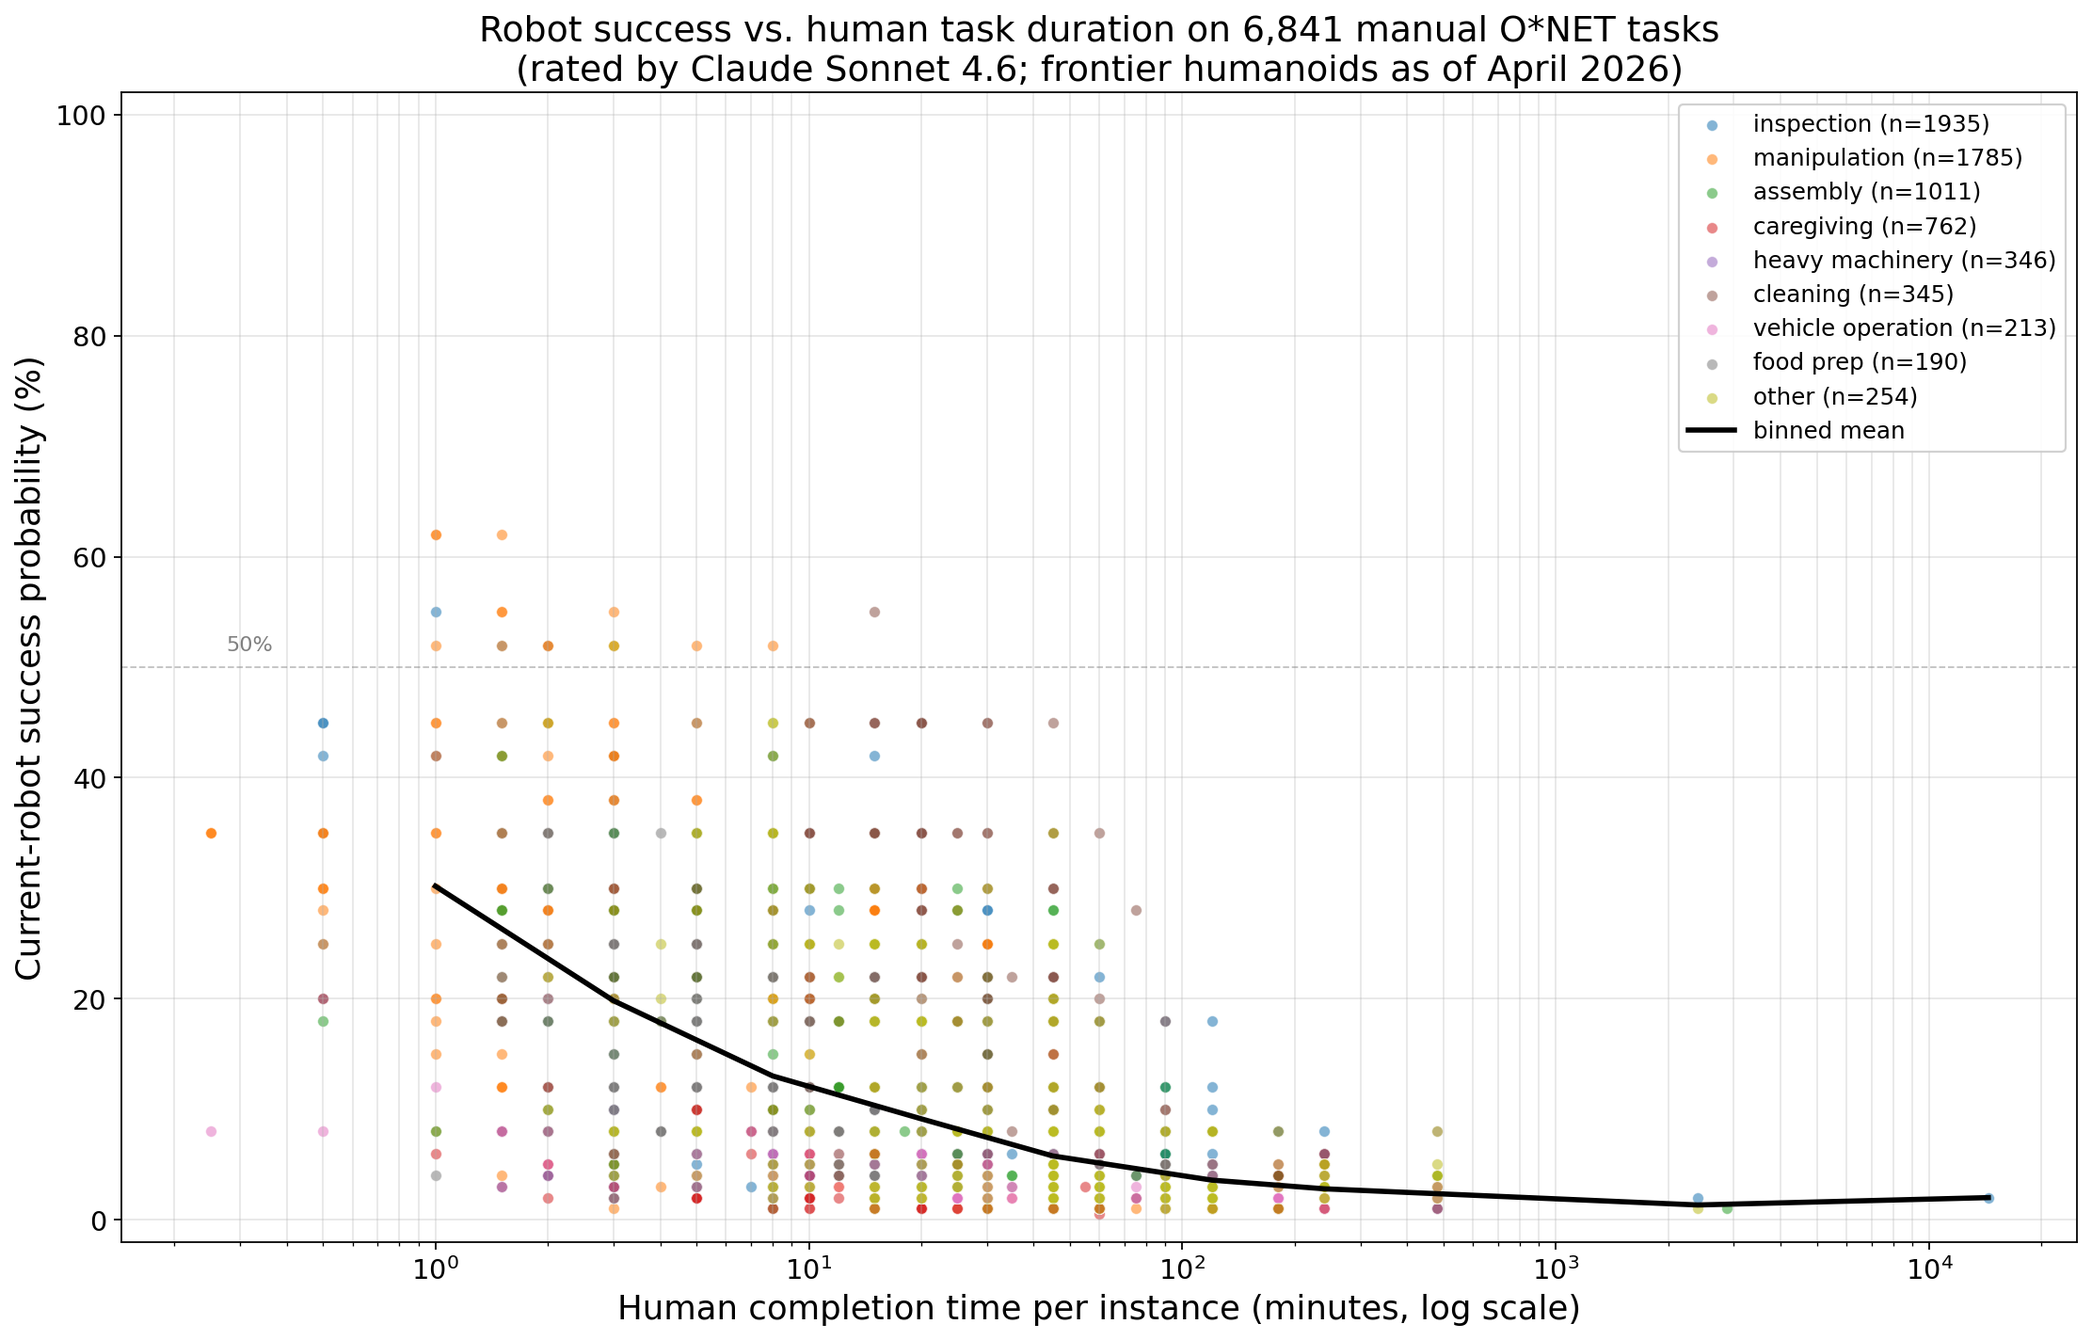
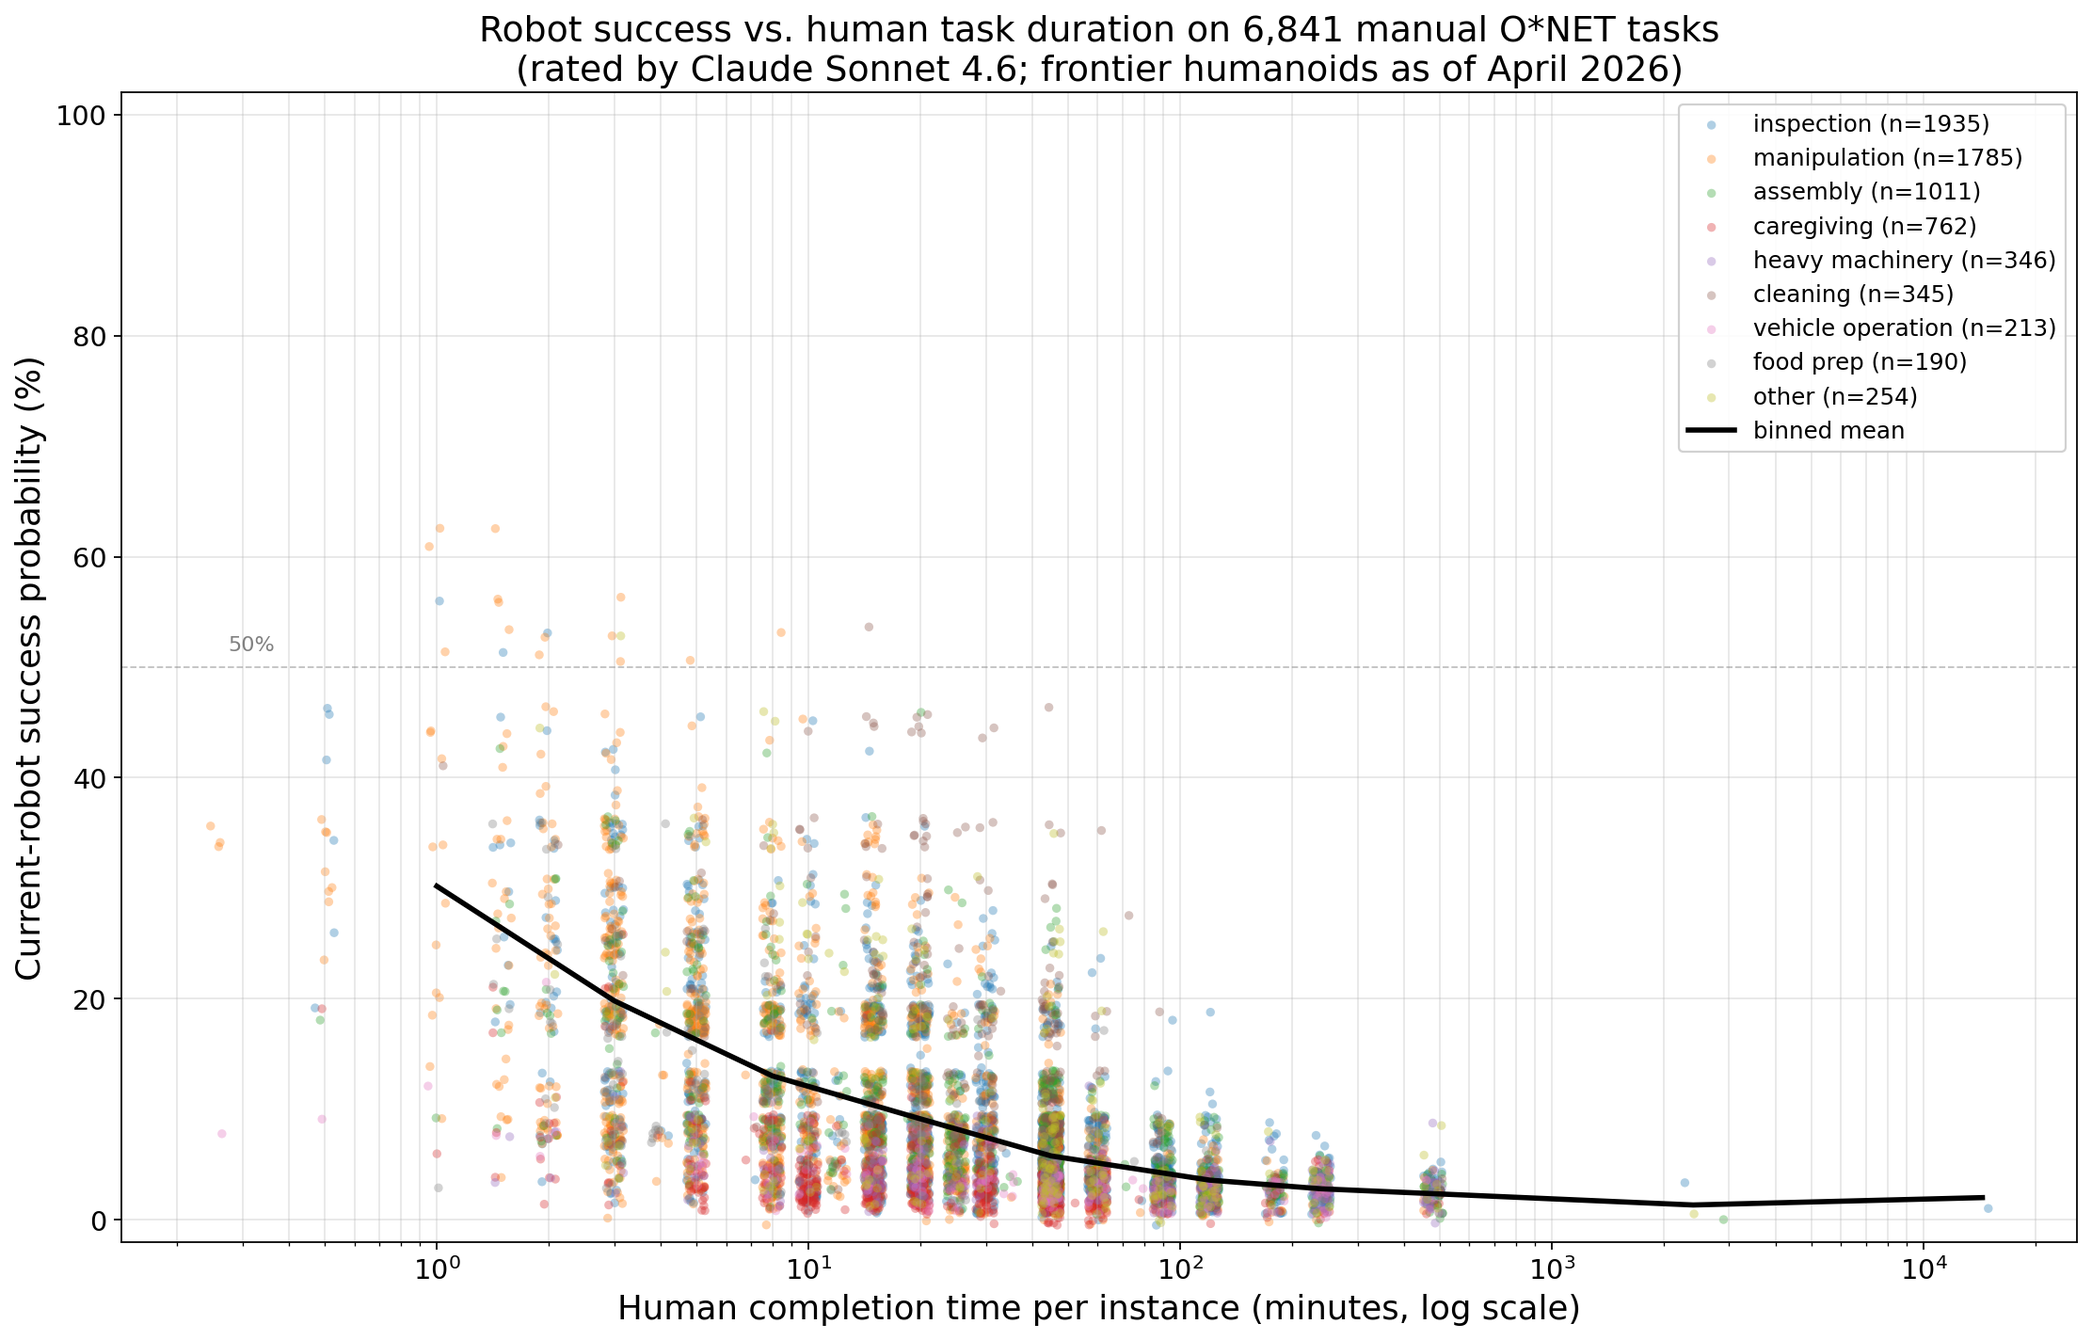
Add jitter to scatter; add human-time histogram; expand README with summary stats
- plot.py: multiplicative log-x jitter ±6% and additive y jitter ±1.5pp
  so integer-valued prob scores and round-number times separate visually
- plot_histogram.py (new): log-x histogram of human_time_minutes with
  median/mean lines and per-bin share labels
- README.md: add headline result, full-corpus summary stats, category table,
  rater-comparison sanity check, limitations section

diff --git a/src/plot_histogram.py b/src/plot_histogram.py
@@ -1,0 +1,78 @@
+"""Slide-quality histogram of human completion time across manual O*NET tasks.
+
+Input:  outputs/manual_tasks_rated_sonnet_4_6.tsv (or PLOT_INPUT)
+Output: plots/human_time_histogram.png
+"""
+
+from __future__ import annotations
+
+import os
+from pathlib import Path
+
+import matplotlib.pyplot as plt
+import numpy as np
+import pandas as pd
+
+ROOT = Path(__file__).resolve().parent.parent
+INPUT_PATH = Path(
+    os.environ.get("PLOT_INPUT", ROOT / "outputs" / "manual_tasks_rated_sonnet_4_6.tsv")
+)
+PLOTS_DIR = ROOT / "plots"
+PLOTS_DIR.mkdir(exist_ok=True)
+OUT_PATH = PLOTS_DIR / "human_time_histogram.png"
+
+
+def main() -> None:
+    df = pd.read_csv(INPUT_PATH, sep="\t")
+    t = df["human_time_minutes"].astype(float)
+    n = len(t)
+
+    bins = np.logspace(np.log10(max(t.min(), 0.1)), np.log10(t.max() * 1.01), 26)
+
+    fig, ax = plt.subplots(figsize=(14, 8))
+    counts, edges, patches = ax.hist(
+        t,
+        bins=bins,
+        color="#4a8cd8",
+        edgecolor="white",
+        linewidth=0.6,
+    )
+
+    share = counts / n * 100
+    for i, p in enumerate(patches):
+        if share[i] >= 1.5:
+            cx = (edges[i] * edges[i + 1]) ** 0.5
+            ax.text(cx, counts[i] + n * 0.004, f"{share[i]:.1f}%", ha="center", va="bottom", fontsize=10)
+
+    median = float(t.median())
+    mean = float(t.mean())
+    ax.axvline(median, color="black", linestyle="--", linewidth=1.5, label=f"median = {median:g} min")
+    ax.axvline(mean, color="firebrick", linestyle=":", linewidth=1.5, label=f"mean = {mean:.1f} min")
+
+    ax.set_xscale("log")
+    ax.set_xlabel("Human completion time per instance (minutes, log scale)", fontsize=16)
+    ax.set_ylabel("Number of manual O*NET tasks", fontsize=16)
+    ax.set_title(
+        f"Human completion time across {n:,} manual O*NET tasks\n"
+        "(rated by Claude Sonnet 4.6)",
+        fontsize=17,
+    )
+    ax.tick_params(axis="both", labelsize=13)
+    ax.grid(True, which="both", axis="y", alpha=0.3)
+
+    tick_positions = [0.25, 1, 5, 15, 60, 240, 8 * 60, 24 * 60, 7 * 24 * 60]
+    tick_labels = ["15s", "1m", "5m", "15m", "1h", "4h", "8h", "1d", "1w"]
+    valid = [(p, lab) for p, lab in zip(tick_positions, tick_labels) if t.min() <= p <= t.max() * 1.01]
+    ax.set_xticks([p for p, _ in valid])
+    ax.set_xticklabels([lab for _, lab in valid])
+
+    ax.legend(fontsize=12, loc="upper right", framealpha=0.9)
+
+    fig.tight_layout()
+    fig.savefig(OUT_PATH, dpi=160, bbox_inches="tight")
+    print(f"wrote {OUT_PATH.relative_to(ROOT)} rows={n}")
+    print(f"min={t.min()} p25={t.quantile(0.25)} median={median} p75={t.quantile(0.75)} max={t.max()} mean={mean:.1f}")
+
+
+if __name__ == "__main__":
+    main()

diff --git a/src/plot.py b/src/plot.py
@@ -34,19 +34,24 @@ def main() -> None:
     cmap = plt.get_cmap("tab10")
     colors = {c: cmap(i) for i, c in enumerate(cats)}
 
+    rng = np.random.default_rng(42)
+    # Multiplicative jitter on log-x (±6% so round values like 1/5/15/30 min spread out)
+    df["x_j"] = df["human_time_minutes"] * rng.uniform(0.94, 1.06, size=len(df))
+    # Additive jitter on y (±1.5 pp so integer-valued probabilities separate visually)
+    df["y_j"] = df["robot_success_prob"] + rng.uniform(-1.5, 1.5, size=len(df))
+
     fig, ax = plt.subplots(figsize=(14, 9))
     for c in cats:
         sub = df[df["cat_plot"] == c]
         if sub.empty:
             continue
         ax.scatter(
-            sub["human_time_minutes"],
-            sub["robot_success_prob"],
-            s=28,
-            alpha=0.55,
+            sub["x_j"],
+            sub["y_j"],
+            s=18,
+            alpha=0.35,
             color=colors[c],
-            edgecolor="white",
-            linewidth=0.4,
+            edgecolor="none",
             label=f"{c} (n={len(sub)})",
         )
 

diff --git a/README.md b/README.md
@@ -1,12 +1,37 @@
 # robotics-task-horizon
 
-A seed dataset and methodology for measuring **current-robot success rates vs. human task duration** on manual O\*NET occupational tasks — a robotics-side companion to Mertens et al. (2026) *Crashing Waves vs. Rising Tides*, which studied the LLM side.
+A dataset and methodology for measuring **current-robot success rates vs. human task duration** on manual O\*NET occupational tasks — a robotics-side companion to Mertens et al. (2026) *Crashing Waves vs. Rising Tides*, which studied the LLM side.
+
+## Headline result
+
+Across **6,841 manual O\*NET tasks**, there is a clean monotonically negative success–duration relationship: the longer a task takes a human, the less likely a frontier 2026 humanoid / mobile manipulator can complete it autonomously.
+
+![Robot success vs human task duration](plots/human_time_vs_robot_prob.png)
+
+![Human completion time histogram](plots/human_time_histogram.png)
+
+Human task-time distribution: strongly bimodal-ish on the log axis, peaking at ~15–45 min (median 25 min, mean 50.6 min), with a long right tail up to ~1 week.
+
+Binned mean robot success (Claude Sonnet 4.6 ratings, frontier humanoid reference class as of April 2026):
+
+| Human time per instance | n tasks | Mean robot success |
+| --- | --- | --- |
+| ~1 min | 38 | 30% |
+| ~3 min | 536 | 20% |
+| ~8 min | 1,141 | 13% |
+| ~20 min | 2,263 | 9% |
+| ~45 min | 1,780 | 6% |
+| ~2 hr | 800 | 3.6% |
+| ~4 hr | 275 | 2.8% |
+| 1 day+ | 4 | ~1.5% |
+
+This is the robotics-side analog of the LLM success–duration curve in Mertens et al. 2026 — but it is **much steeper** and overall much lower. Only 19 / 6,841 tasks (0.3%) exceed 50% success; 3,421 / 6,841 (50%) are at 5% or below.
 
 ## Motivation
 
 Mertens et al. (2026) asked: across text-based labor-market tasks, how does LLM success scale with the time a human would need? They screened O\*NET tasks with GPT-4 for ≥10% LLM time-savings potential and found an approximately "rising tide" (flat-slope) success–duration curve.
 
-Their screen was a **usefulness** criterion on text-based tasks. This project asks a parallel question on a different axis: for O\*NET tasks whose primary execution is **physical / manual** (the domain robots, not LLMs, must tackle), how do frontier humanoid/mobile-manipulator robots perform vs. human task duration?
+Their screen was a **usefulness** criterion on text-based tasks. This project asks a parallel question on a different axis: for O\*NET tasks whose primary execution is **physical / manual** (the domain robots, not LLMs, must tackle), how do frontier humanoid / mobile-manipulator robots perform vs. human task duration?
 
 This is not the logical inverse of the reference paper — their filter is time-savings-based, ours is modality-based — but it uses the same O\*NET task universe and is designed to let a similar analysis be run on the robotics side.
 
@@ -14,50 +39,109 @@ This is not the logical inverse of the reference paper — their filter is time-
 
 Source: O\*NET Task Statements (`data/onet/Task Statements.txt`, 18,796 tasks across 923 SOC codes).
 
+After modality classification: **6,841 manual** (36%) vs **11,955 text-based** (64%).
+
 ## Pipeline
 
 1. **Classify** every O\*NET task as *manual* (physical execution required) vs. *text-based* (cognitive / verbal / written / planning / supervisory). Claude Haiku 4.5, 200-way async, tool-forced structured output, prompt-cached system prompt, resumable.
    - Script: `src/classify_manual.py`
    - Output: `outputs/classifications.tsv`
 
-2. **Filter and sample.** Keep only `is_manual=True` rows → `outputs/manual_tasks.tsv`. Draw a seeded sample of 100 (`seed=42`) → `outputs/manual_tasks_sample100.tsv`.
+2. **Filter and sample.** Keep `is_manual=True` → `outputs/manual_tasks.tsv` (6,841 rows). Draw a seeded sample of 100 (`seed=42`) → `outputs/manual_tasks_sample100.tsv`.
    - Script: `src/filter_and_sample.py`
 
-3. **Rate.** For each of the 100 sampled tasks, Claude Sonnet 4.6 assigns:
-   - `task_category` — short label (manipulation, locomotion, vehicle operation, assembly, food prep, cleaning, caregiving, inspection, heavy machinery, …).
+3. **Rate.** For each task, Claude Sonnet 4.6 assigns:
+   - `task_category` — short label (manipulation, inspection, assembly, caregiving, cleaning, heavy machinery, vehicle operation, food prep, locomotion, …).
    - `human_time_minutes` — median time for a competent human to complete one instance, with rationale.
    - `robot_success_prob` (0–100) — probability a best-available 2026 general-purpose mobile manipulator / humanoid could complete one instance autonomously at acceptable quality, with rationale.
-   - Script: `src/rate.py`
-   - Output: `outputs/manual_tasks_sample100_rated.tsv`
+   - Script: `src/rate.py` (resumable; takes `RATE_MODEL` and `RATE_INPUT` env vars).
+   - Output: `outputs/manual_tasks_rated_sonnet_4_6.tsv` (full), `outputs/manual_tasks_sample100_rated_sonnet_4_6.tsv` (sample), `outputs/manual_tasks_sample100_rated_haiku_4_5.tsv` (Haiku comparison on the sample).
+
+4. **Sort and plot.**
+   - `src/sort_by_time.py` → `outputs/manual_tasks_rated_by_time.tsv` (sorted ascending by human time).
+   - `src/plot.py` → `plots/human_time_vs_robot_prob.png` (scatter w/ jitter + binned-mean curve).
+   - `src/plot_histogram.py` → `plots/human_time_histogram.png`.
 
 ## Reproduce
 
 ```bash
 uv sync
-uv run python src/classify_manual.py    # ~3–5 min, ~$5–8 Anthropic spend
-uv run python src/filter_and_sample.py  # instant
-uv run python src/rate.py               # ~1 min, <$1 Anthropic spend
+uv run python src/classify_manual.py                     # ~4.5 min, ~$5 Anthropic spend
+uv run python src/filter_and_sample.py                   # instant
+RATE_INPUT=outputs/manual_tasks.tsv uv run python src/rate.py  # ~3 min, ~$55 Anthropic spend
+uv run python src/sort_by_time.py
+uv run python src/plot.py
 ```
 
 Requires `ANTHROPIC_API_KEY` in `.env` (note: `python-dotenv` is called with `override=True` because shell env may hold a stale key).
 
+## Summary statistics
+
+**Full manual-task ratings** (`outputs/manual_tasks_rated_sonnet_4_6.tsv`, n = 6,841):
+
+| Metric | Value |
+| --- | --- |
+| Human time p25 / median / p75 | 10 / 25 / 45 min |
+| Human time min / max | 0.25 min (15 s) / 14,400 min (10 d) |
+| Robot success min / median / mean / max | 0.5% / 5% / 9.0% / 62% |
+| Tasks with robot_success ≥ 50% | 19 (0.3%) |
+| Tasks with robot_success ≥ 30% | 292 (4.3%) |
+| Tasks with robot_success ≤ 5% | 3,421 (50.0%) |
+
+**By task category** (n ≥ 50 only):
+
+| Category | n | Mean robot success | Median human time |
+| --- | ---: | ---: | ---: |
+| inspection | 1,935 | 9.2% | 30 min |
+| manipulation | 1,785 | 11.3% | 15 min |
+| assembly | 1,011 | 7.8% | 45 min |
+| caregiving | 762 | 3.8% | 20 min |
+| heavy machinery | 346 | 3.7% | 45 min |
+| cleaning | 345 | 16.6% | 25 min |
+| vehicle operation | 213 | 3.6% | 45 min |
+| food prep | 190 | 11.6% | 10 min |
+| locomotion | 128 | 10.3% | 25 min |
+
+Cleaning and simple manipulation are the easiest categories on average; caregiving (heavy medical component), heavy-machinery operation, and vehicle operation are the hardest.
+
+**Extremes** (from `outputs/manual_tasks_rated_by_time.tsv`):
+
+Highest-success tasks: pick-and-place of workpieces (62%), sort products by weight/size (55%), sweep floors (55%), press machine-control buttons (52%).
+
+Lowest-success tasks among the ≥30-minute bucket: virtually all surgical / dental / prenatal / anesthesia procedures (0–1%); pipe-organ installation; restaging of choreographed dance works.
+
+## Rater comparison (sanity check on the sample)
+
+We rated the 100-task sample with both Sonnet 4.6 and Haiku 4.5 to check calibration:
+
+| | Sonnet 4.6 | Haiku 4.5 |
+| --- | ---: | ---: |
+| Mean robot success | 9.3% | 22.4% |
+| Median robot success | 8% | 25% |
+| Per-task Spearman ρ (robot success) | — | **0.75** vs Sonnet |
+| Per-task Spearman ρ (human time) | — | **0.80** vs Sonnet |
+
+Haiku ranks tasks similarly to Sonnet but is systematically ~13 pp more optimistic about current-robot capability — it tends to give moderate scores to manipulation / assembly tasks that Sonnet rates near floor. We use Sonnet 4.6 as the reported rater.
+
+25 of the 6,841 tasks triggered `stop_reason=refusal` mid-tool-call on Sonnet 4.6 (hazmat transport, medical procedures, chemical spraying). These 25 were filled via Haiku 4.5 fallback; they are <0.4% of the sample and do not materially shift the aggregate statistics.
+
 ## Methodology notes
 
 **Definition of "manual"** (modality, not LLM time-savings):
-> A task is **manual** iff its primary execution requires physical manipulation of tangible objects, operation of physical tools/machinery/vehicles, bodily movement, or on-site physical presence to interact with the physical world.
+> A task is **manual** iff its primary execution requires physical manipulation of tangible objects, operation of physical tools / machinery / vehicles, bodily movement, or on-site physical presence to interact with the physical world.
 
 Supervisory, planning, and communicative tasks are classified as **text-based** even when they occur in traditionally "blue-collar" SOC families (e.g. "Supervise construction workers" → text-based; "Load cargo onto trucks" → manual). Full definition with edge cases in `src/classify_manual.py`.
 
 **Definition of "current robot"** (for success-probability ratings):
-> Best-available 2026 general-purpose mobile manipulator / humanoid — e.g. Figure 02, 1X Neo Gamma, Tesla Optimus Gen 3, Boston Dynamics Atlas (electric), Unitree H1/G1, Agility Digit, Apptronik Apollo — deployed commercially or in advanced pilots. **Excludes**: task-specific research demos, teleoperation, narrow industrial arms on fixed fixtures.
+> Best-available 2026 general-purpose mobile manipulator / humanoid — e.g. Figure 02, 1X Neo Gamma, Tesla Optimus Gen 3, Boston Dynamics Atlas (electric), Unitree H1 / G1, Agility Digit, Apptronik Apollo — deployed commercially or in advanced pilots. **Excludes**: task-specific research demos, teleoperation, narrow industrial arms on fixed fixtures.
 
-Capability anchors used to calibrate the rater are in `src/rate.py`.
+Capability anchors used to calibrate the rater are in `src/rate.py` (includes explicit prob ranges for pick-and-place, folding laundry, driving vehicles, fine dexterous work, caregiving, cooking, cleaning, assembly, etc.).
 
 **Sample seed**: `42` (Python `random.Random`).
 
 **Models**:
 - Classification: `claude-haiku-4-5`
-- Rating: `claude-sonnet-4-6`
+- Rating: `claude-sonnet-4-6` (with `claude-haiku-4-5` fallback on 25 refusals)
 
 ## Output schemas
 
@@ -74,7 +158,7 @@ Capability anchors used to calibrate the rater are in `src/rate.py`.
 
 `outputs/manual_tasks_sample100.tsv`: same columns, seeded sample of 100.
 
-`outputs/manual_tasks_sample100_rated.tsv`:
+`outputs/manual_tasks_rated_sonnet_4_6.tsv` (and `..._rated_by_time.tsv`, and sample variants):
 | column | type | description |
 | --- | --- | --- |
 | task_id | str | |
@@ -92,11 +176,20 @@ Capability anchors used to calibrate the rater are in `src/rate.py`.
 | --- | --- | --- |
 | Domain | LLM automation | Robot automation |
 | Filter axis | Time-savings ≥10% (GPT-4 screen) | Modality = physical (Haiku 4.5 screen) |
-| Rater | Human workers (40+ LLMs evaluated) | Claude Sonnet 4.6 (seed dataset; human eval is future work) |
+| Rater | Human workers evaluating 40+ LLMs | Claude Sonnet 4.6 (seed dataset; human eval is future work) |
 | Task source | O\*NET | O\*NET |
-| Outcome | Manager-acceptable completion | Autonomous completion at acceptable quality |
+| Outcome | Manager-acceptable completion without edits | Autonomous completion at acceptable quality |
+| Shape of success–duration curve | Flat ("rising tide") | Clearly negative, much steeper |
 
 The two filters overlap but are not complementary: some text-based tasks have <10% LLM time savings; some manual tasks also have text components. This dataset targets the **physical** slice specifically.
+
+## Limitations
+
+- **LLM rater, not human rater.** All success probabilities are Claude Sonnet 4.6's judgments against capability anchors specified in the system prompt. Human expert ratings are future work.
+- **Reference-class drift.** "Current robot" = frontier general-purpose humanoid / mobile manipulator as of April 2026. Estimates will age; re-rating with a new anchor set is part of the intended workflow.
+- **Per-instance interpretation.** Ratings are for *one* instance of a task (e.g. one patient, one room, one shipment), not aggregate throughput or multi-day campaigns.
+- **Sonnet refusals.** 25 tasks (hazmat / medical) were filled via Haiku fallback; Haiku is ~13 pp more optimistic. Aggregate impact is <0.05 pp on mean robot success, but individual rows may look slightly rosy.
+- **O\*NET task wording.** O\*NET tasks are often abstracted descriptions of activities, not specific instances. "Typical" instance assumptions are encoded in each rationale.
 
 ## Reference
 
